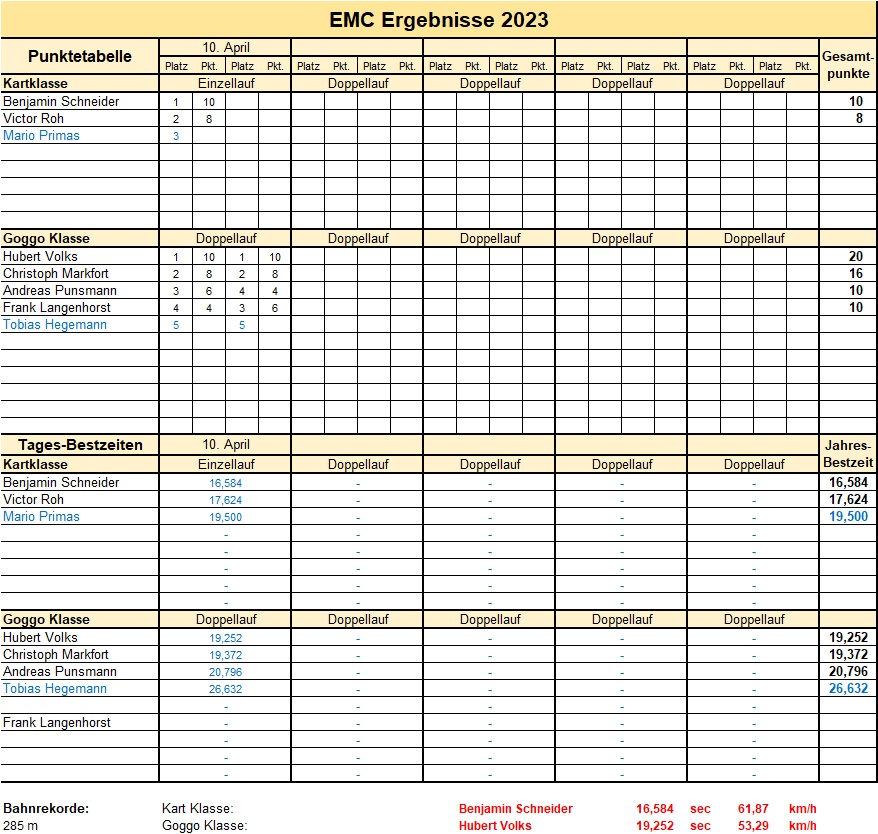
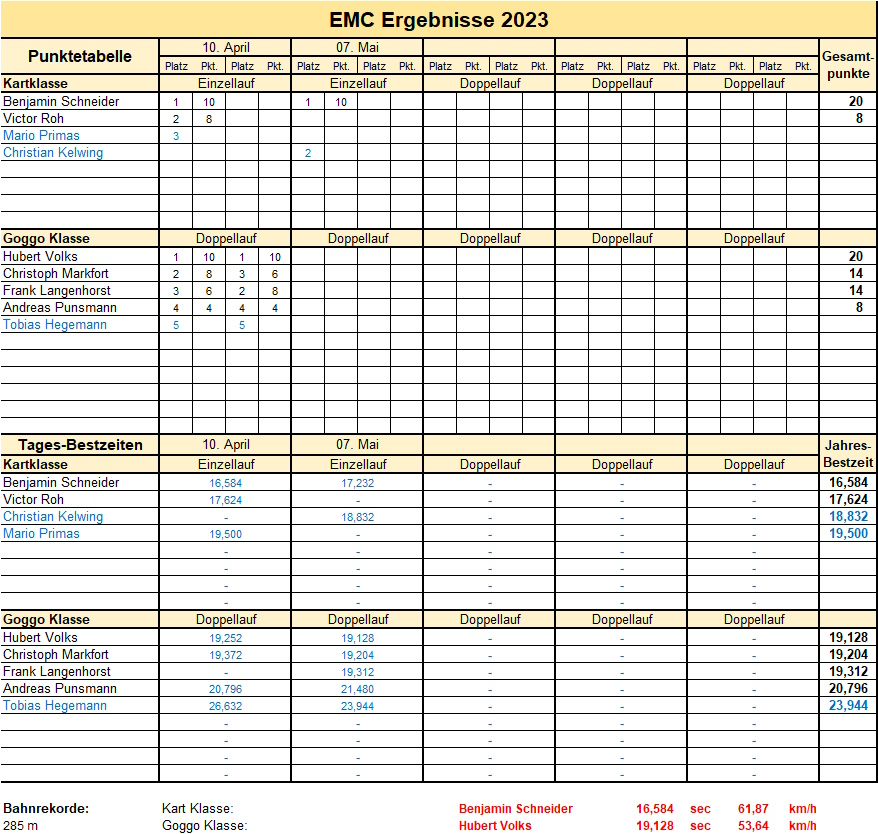
5.23

diff --git a/index.html b/index.html
@@ -8,6 +8,44 @@ description: Kartsport mit "Goggo"-Karts und konventionellen Karts
 <!-------------------------------------------------------------------------->
 <h2 align="center">Das Jahr 2023</h2>
 
+<h3 align="center">2. Lauf um den Jahrespokal des EMC am 7. Mai 2023</h3>
+<p align="justify">
+  Beim 2. Lauf in diesem Jahr waren nur wenige Fahrer zum Start angetreten.
+  In der Goggo-Klasse gingen 5 Fahrer und in der Kartklasse nur 2 Fahrer
+  an den Start. In der Kart-Klasse waren vor dem rennen zwei Fahrzeuge durch
+  technischen Defekt ausgefallen.
+</p>
+<p align="justify">
+  In der Goggo-Klasse konnte Hubert Volks 2 Siege einfahren. Die weiteren Plätze
+  belegten Frank Langenhorst, Christoph Markfort und Andreas Pundmann
+  und Tobias Hegemann.
+</p>
+<p align="justify">
+  In der Kartklasse war Benjamin Schneider vor Christian Kelwing erfolgreich.
+</p>
+<figure class="gesamt">           <!-- 2 Bilder nebeneinander anordnen -->
+      <figure class="einzel2">    <!-- Originalgröße 1630 x 1400 einstellen -->
+           <img src="img/rennen/2023.05.07_goggo.jpg" alt="Sieger Goggo" />
+           <figcaption>Tagessieger Goggo</figcaption>
+      </figure>
+      <figure class="einzel2">
+           <img src="img/rennen/2023.05.07_kart.jpg" alt="Sieger Kart" />
+           <figcaption>Tagessieger Kart</figcaption>
+      </figure>
+</figure>
+<div class="textspalten2">       <!-- Bildunterschrift in 2 Spalten anordnen -->
+   <ul>
+    	<li>1. Hubert Volks</li>
+   		<li>2. Frank Langenhorst</li>
+   		<li>3. Christoph Markfort</li>
+   		<li>4. Andreas Punsmann</li>
+   		<li>1. Benjamin Schneider</li>
+      <li>2. Christian Kelwing</li>
+      <li></li>
+      <li></li>
+   </ul>
+</div>
+
 <h3 align="center">1. Lauf um den Jahrespokal des EMC am 10. April 2023</h3>
 <p align="justify">
   Die Rennsaison des EMC wurde planmäßig mit dem 1. Lauf am Ostermontag
